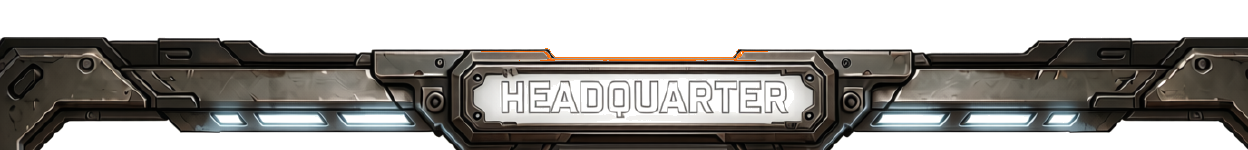
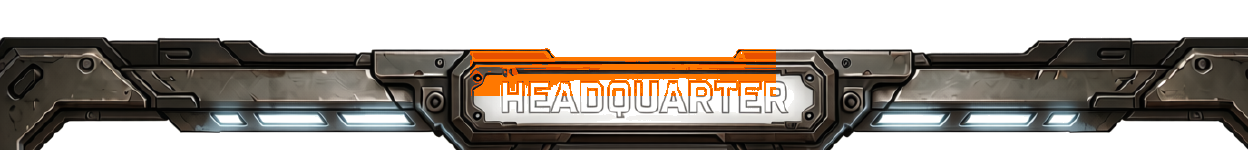
feat: add vector glowing orange HEADQUARTER title overlay with cache buster

Changed region(s): [[0.375, 0.32, 0.625, 0.64]]

diff --git a/src/screens/HQScreen.jsx b/src/screens/HQScreen.jsx
@@ -381,11 +381,30 @@ export default function HQScreen() {
           right: 0,
           height: 64,
           zIndex: 12,
-          backgroundImage: "url('/assets/top_bezel_hq_arctron.webp')",
+          backgroundImage: "url('/assets/top_bezel_hq_arctron.webp?v=3')",
           backgroundSize: '100% 100%',
           backgroundRepeat: 'no-repeat',
           pointerEvents: 'none',
         }} />
+
+        {/* Glowing Orange HEADQUARTER Plate Title Overlay */}
+        <div style={{
+          position: 'absolute',
+          top: 14,
+          left: '50%',
+          transform: 'translateX(-50%)',
+          zIndex: 15,
+          fontFamily: "'Orbitron', 'Share Tech Mono', sans-serif",
+          fontSize: 15,
+          fontWeight: 900,
+          letterSpacing: 4,
+          color: '#ff8c3c',
+          textShadow: '0 0 10px #ff6600, 0 0 20px #ff8c3c, 0 0 35px #ff3300',
+          pointerEvents: 'none',
+          whiteSpace: 'nowrap',
+        }}>
+          HEADQUARTER
+        </div>
 
         {/* Header Bar */}
         <div className="hq-header" style={{
